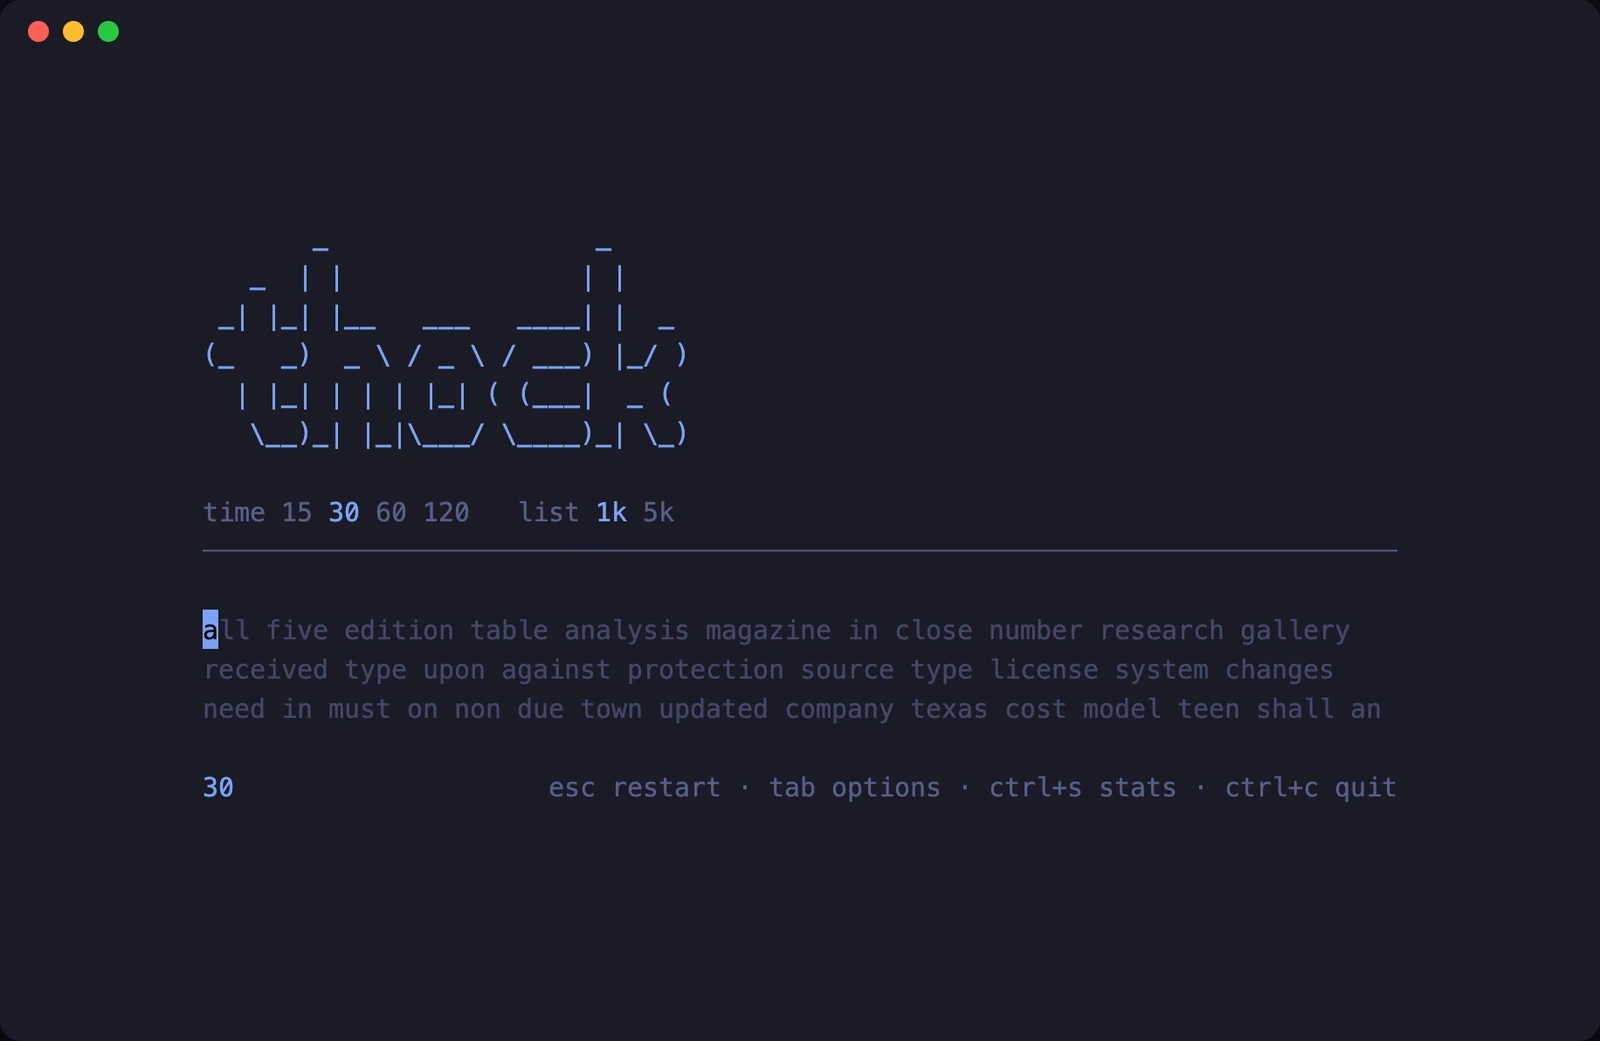
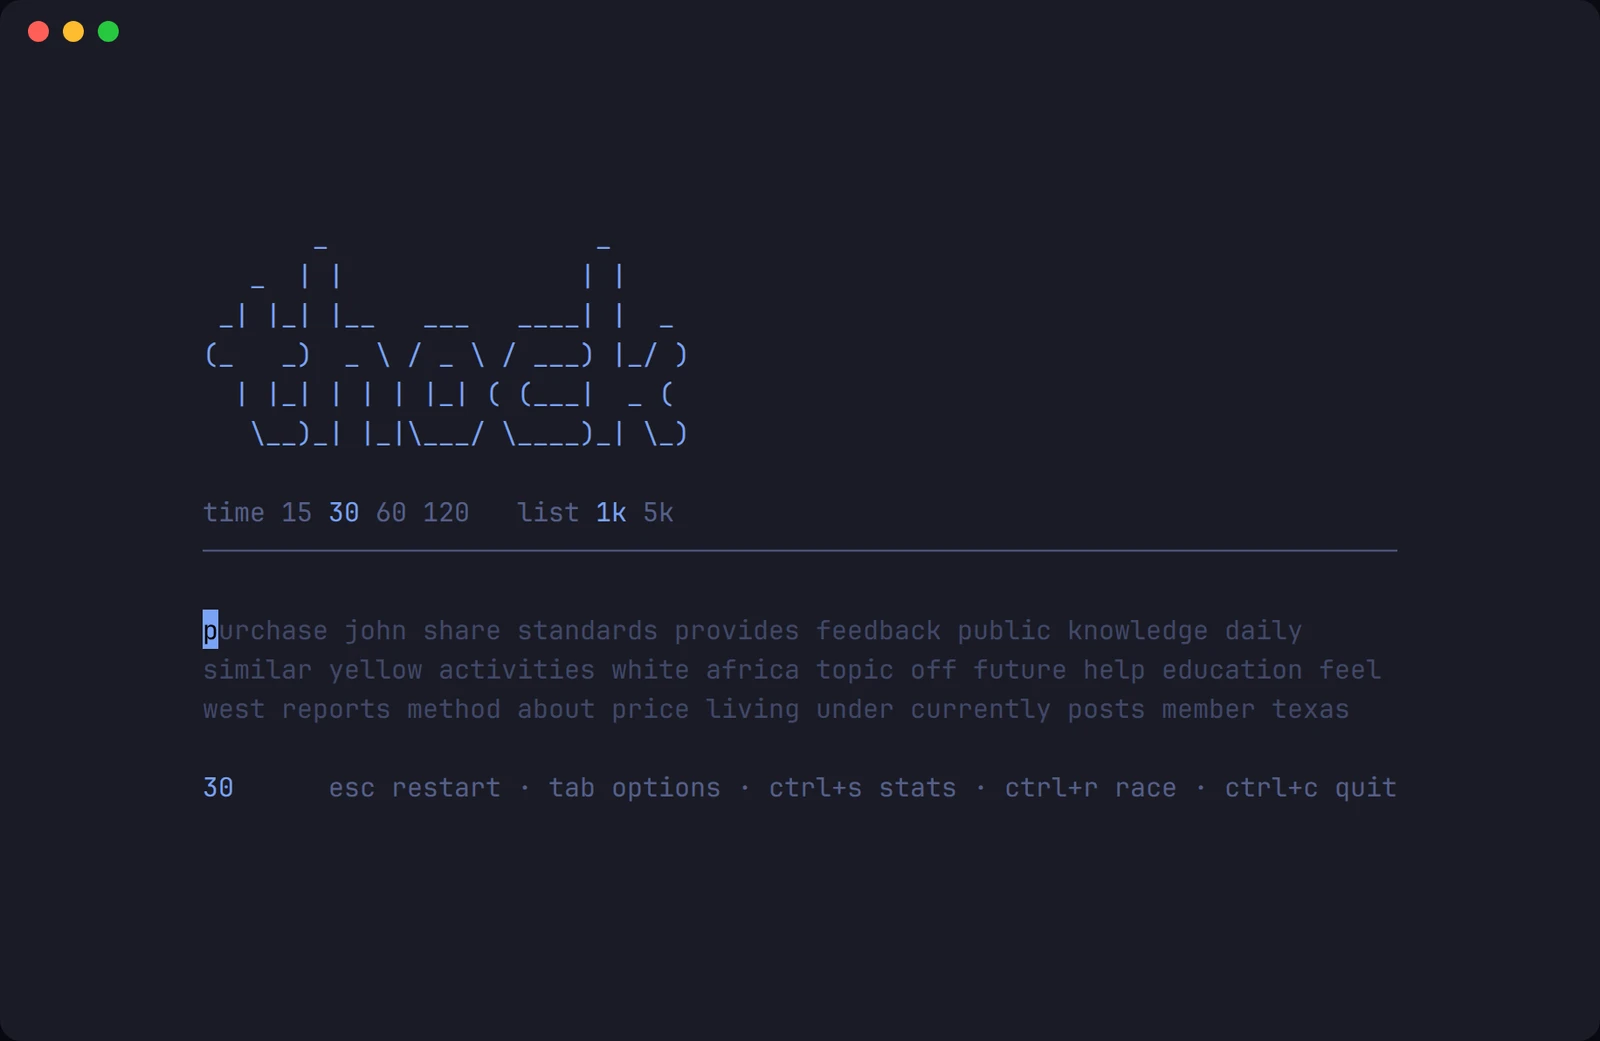
docs: document racing, with shots from a real race

diff --git a/README.md b/README.md
@@ -7,6 +7,7 @@ Monkeytype, straight in your terminal. It uses the same scoring formulas, so you
 ## Features
 
 - Time, words and quotes modes, with a 1k or 5k word list
+- Race people on your network, with everyone's cursor shown live in your own text
 - wpm, raw, accuracy and consistency, calculated the way Monkeytype does it
 - A stats screen with your run history, trend lines and personal bests
 - 10 themes, plus `NO_COLOR` support
@@ -46,6 +47,7 @@ thock --mode quotes       # a famous line from a film, book or show
 thock --list 5k           # wider vocabulary
 thock --theme gruvbox     # see `thock themes`
 thock stats               # personal bests and recent runs
+thock race                # find a race on your network, or host one
 ```
 
 If you pass `--time` or `--words` you don't need `--mode` as well.
@@ -58,6 +60,7 @@ If you pass `--time` or `--words` you don't need `--mode` as well.
 | `enter` | new text (on the results screen) |
 | `tab` | options (`enter` to apply and restart, `esc` to back out) |
 | `ctrl+s` | stats (`←→` to filter, `esc` to go back) |
+| `ctrl+r` | race (see [Racing](#racing)) |
 | `ctrl+w` | delete the last word |
 | `ctrl+c` | quit |
 
@@ -72,6 +75,37 @@ Typing on the results screen doesn't do anything, so an extra keystroke after yo
 Each bar is one run, with a smoothed average underneath. Accuracy and consistency get their own sparklines, each labelled with its own min and max, and the table at the bottom has your bests and averages for each setup. `←→` switches between the setups you've played. Runs are only compared with the same setup, so a 30s run won't count toward your 60s bests.
 
 `thock stats` prints the same numbers without opening the UI.
+
+## Racing
+
+Race anyone on the same network, each in their own terminal. One person hosts and the others join:
+
+```sh
+thock race host --words 25    # open a room: 10, 25, 50 or 100 words, or --quote short
+thock race join velvet-orbit  # join by the room's code...
+thock race join 192.168.1.20  # ...or its address
+thock race                    # list the rooms on your network and pick one
+```
+
+Rooms announce themselves on the local network, so `thock race` usually finds them without typing anything. Every room also has a two-word code that spells its address, which still works on networks that block the announcements (guest Wi-Fi often does). `--name` sets the name other racers see, and thock remembers it.
+
+![A race in progress: three lanes with pace trails above the text, and the other two racers' cursors shown as coloured blocks inside the words](docs/screenshots/race-typing.webp)
+
+- **Everyone's cursor is in your text.** The other racers show up as coloured blocks on the letter they're typing, so you can see someone two words ahead of you without looking away from the words.
+- **Lanes show pace, not just position.** Each lane's trail is shaded by how fast that racer was typing at that point in the text, so you can see where a lead came from.
+- **The words stay hidden until zero.** The countdown shows only the shape of the text, and keys pressed early are ignored.
+- **A time gap, not a character count.** The status line shows how long ago the racer ahead of you was where you are now, like the time gaps in a cycling race.
+- **Replays.** Press `r` on the results screen to watch the whole race again at 2×, with every cursor moving through the text.
+
+| Lobby | Results |
+| :-: | :-: |
+| <img src="docs/screenshots/race-lobby.webp" alt="The race lobby: the thock banner, the race setup, three racers and the command to join" width="400"> | <img src="docs/screenshots/race-podium.webp" alt="Race results: places, wpm, accuracy and finishing times, each racer's pace on a shared clock, and a running tally of wins" width="400"> |
+
+The host picks the setup with `←→` and starts each round with `enter`. Anyone can press `esc` to give up a round or leave the room. A room holds up to eight racers, and anyone who arrives mid-round races in the next one.
+
+Everyone's finishing time is measured on their own machine from a shared start, so network lag doesn't decide who wins. The host scores every run from its keystrokes with the same formulas as a solo test. A race counts toward your personal bests like any other words or quote test.
+
+`thock race host --headless` runs a room with no screen, for a spare machine to hold. The first person to join gets the host controls.
 
 ## Scoring
 
@@ -111,10 +145,10 @@ A frame at 120 FPS is 8.3 ms, so a keystroke uses about 1/2000th of it.
 
 | Path | |
 |---|---|
-| `~/.config/thock/config.toml` | theme and last-used test settings |
+| `~/.config/thock/config.toml` | theme, last-used test settings and your race name |
 | `~/.local/share/thock/results.jsonl` | one JSON object per finished test |
 
-Both respect `XDG_CONFIG_HOME` and `XDG_DATA_HOME`. Results are plain JSONL and stay on your machine.
+Both respect `XDG_CONFIG_HOME` and `XDG_DATA_HOME`. Results are plain JSONL and stay on your machine. Racing uses TCP on ports 47300–47307 and multicast on `239.255.77.77:47777`, and only talks to machines on your network.
 
 ## Not affiliated with Monkeytype
 
